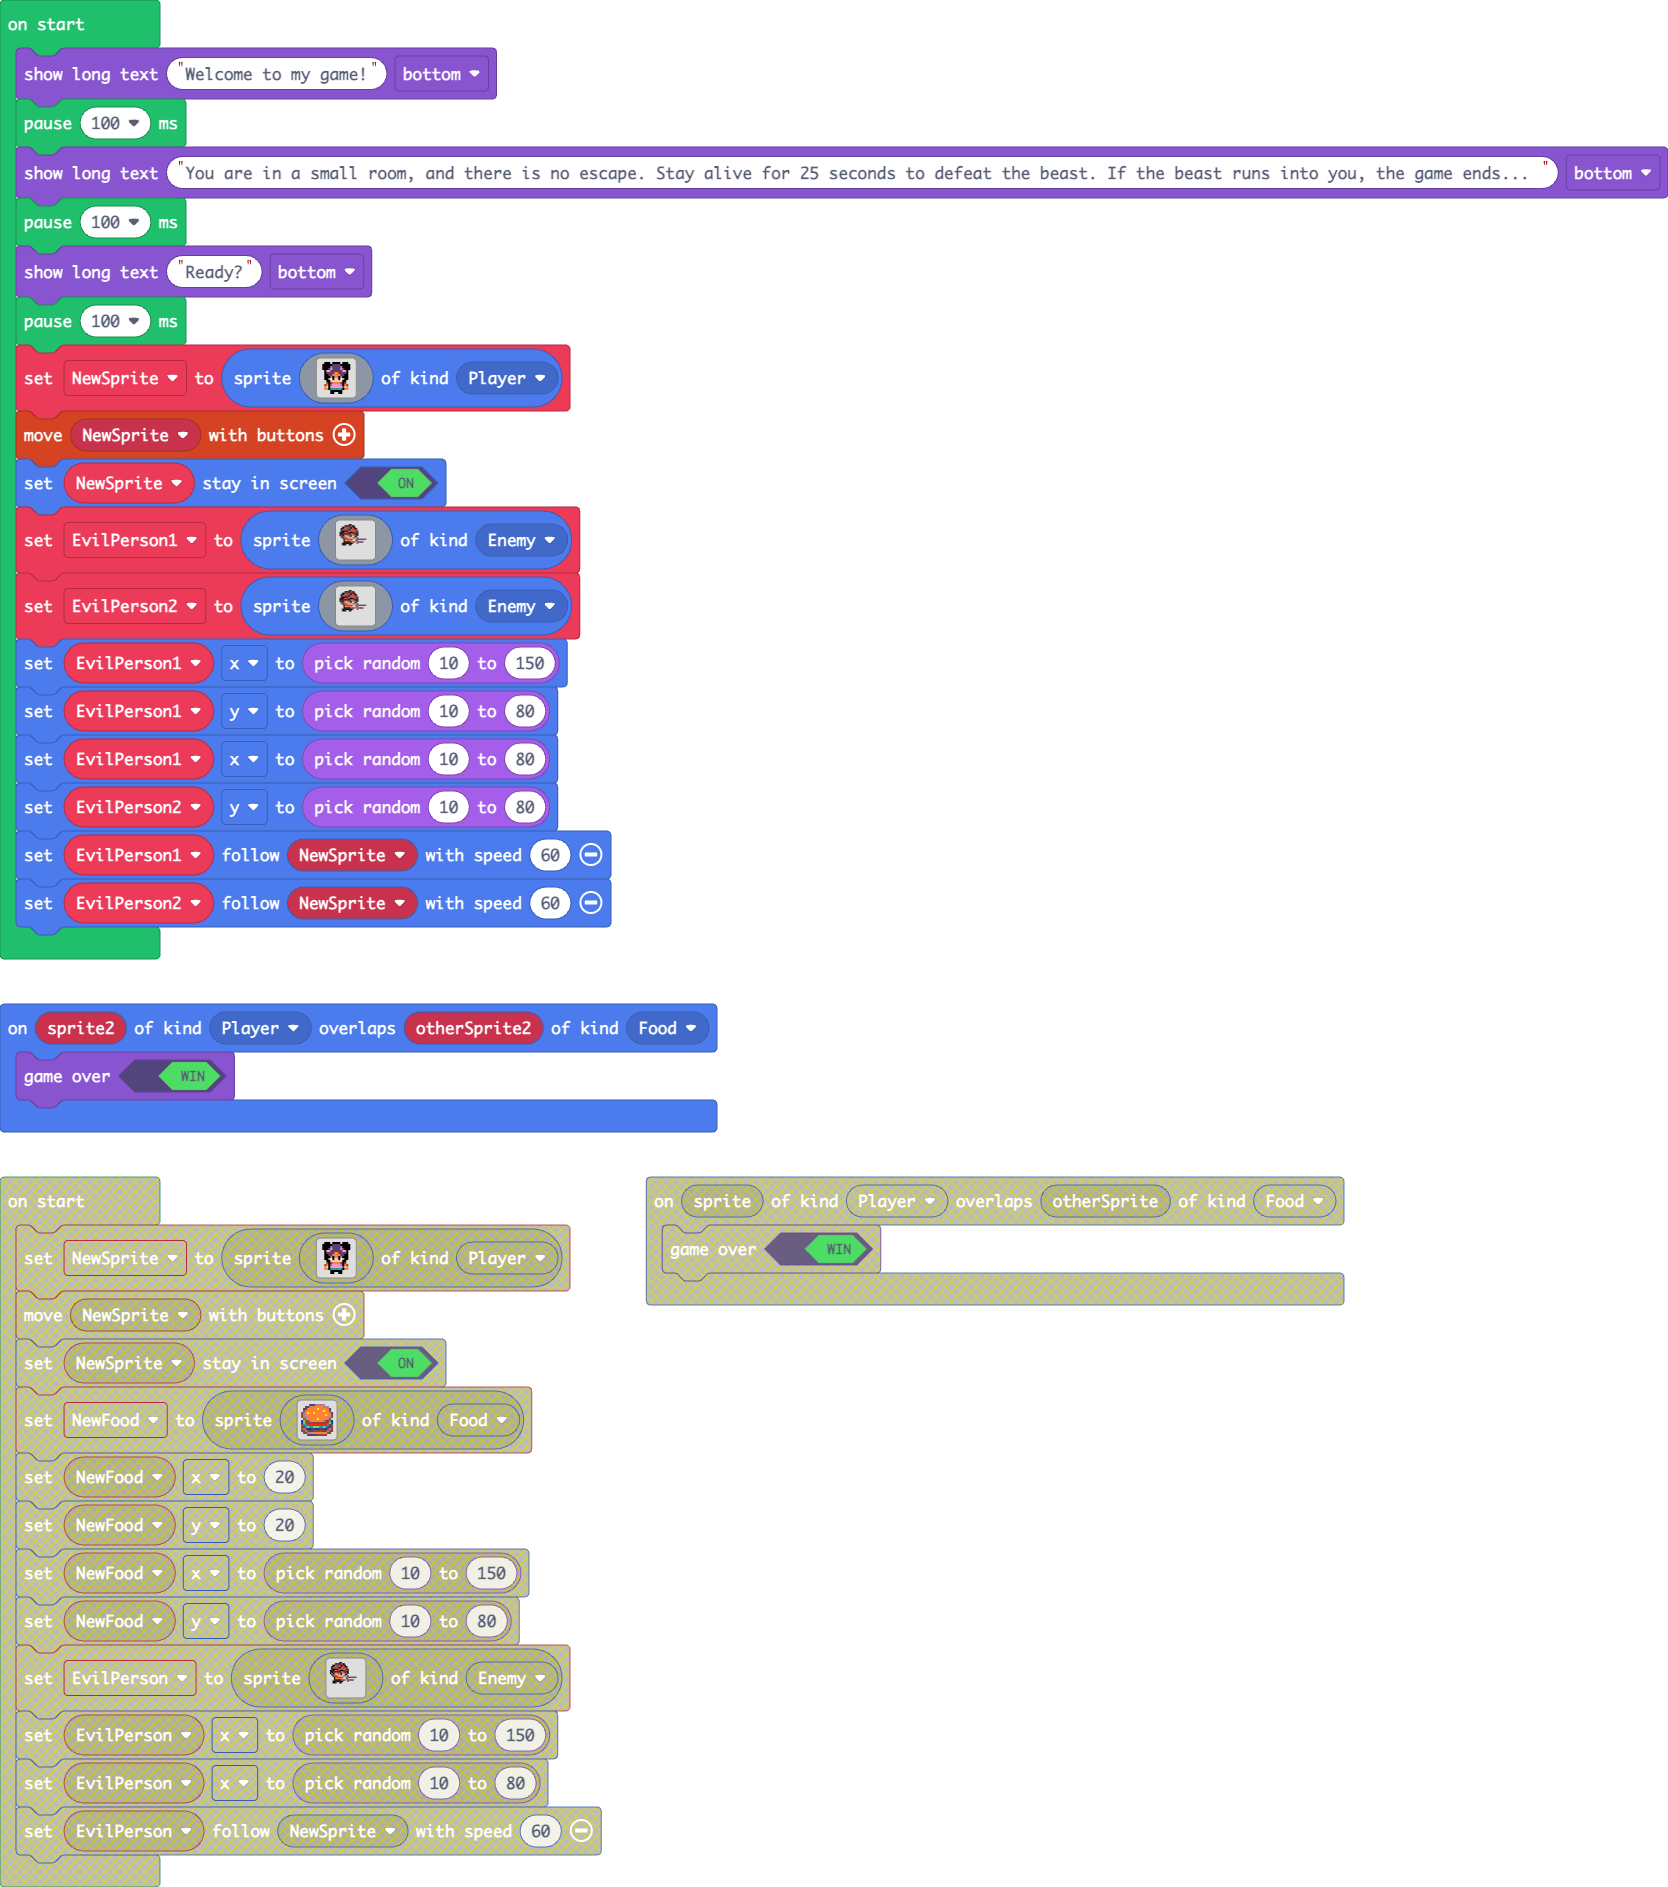
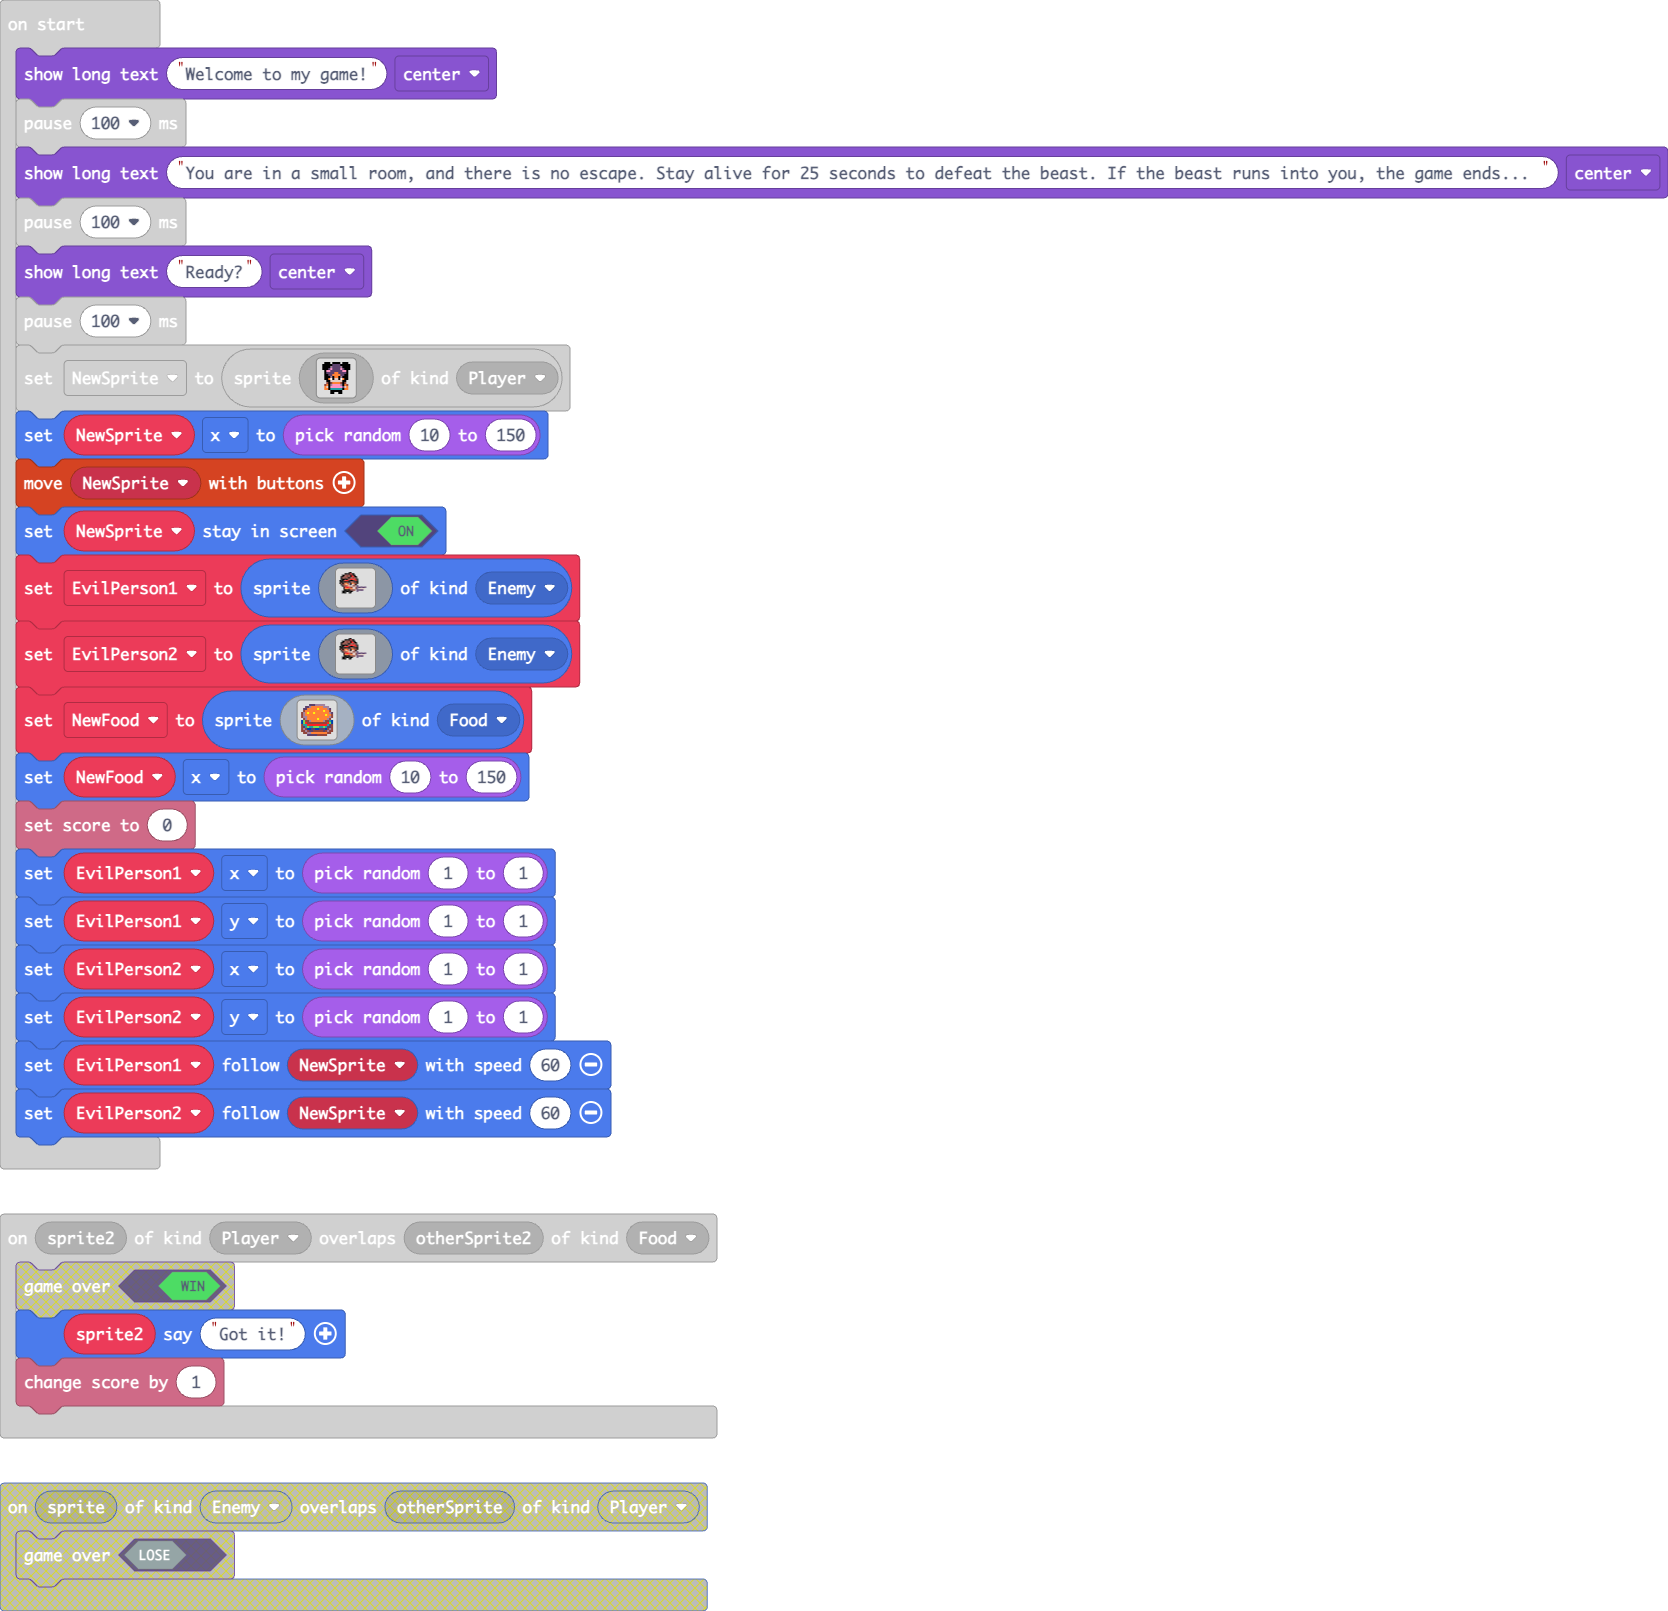
Update main.blocks, main.ts, images.g.jres, images.g.ts

diff --git a/main.ts b/main.ts
@@ -1,23 +1,25 @@
-sprites.onOverlap(SpriteKind.Enemy, SpriteKind.Player, function (sprite, otherSprite) {
-    game.gameOver(false)
-})
 sprites.onOverlap(SpriteKind.Player, SpriteKind.Food, function (sprite2, otherSprite2) {
-    game.gameOver(true)
+    sprite2.sayText("Got it!")
+    info.changeScoreBy(1)
 })
-game.showLongText("Welcome to my game!", DialogLayout.Bottom)
+game.showLongText("Welcome to my game!", DialogLayout.Center)
 pause(100)
-game.showLongText("You are in a small room, and there is no escape. Stay alive for 25 seconds to defeat the beast. If the beast runs into you, the game ends... ", DialogLayout.Bottom)
+game.showLongText("You are in a small room, and there is no escape. Stay alive for 25 seconds to defeat the beast. If the beast runs into you, the game ends... ", DialogLayout.Center)
 pause(100)
-game.showLongText("Ready?", DialogLayout.Bottom)
+game.showLongText("Ready?", DialogLayout.Center)
 pause(100)
 let NewSprite = sprites.create(assets.image`Hero`, SpriteKind.Player)
+NewSprite.x = randint(10, 150)
 controller.moveSprite(NewSprite)
 NewSprite.setStayInScreen(true)
 let EvilPerson1 = sprites.create(assets.image`EvilPerson`, SpriteKind.Enemy)
 let EvilPerson2 = sprites.create(assets.image`EvilPerson`, SpriteKind.Enemy)
-EvilPerson1.x = randint(10, 150)
-EvilPerson1.y = randint(10, 80)
-EvilPerson1.x = randint(10, 80)
-EvilPerson2.y = randint(10, 80)
+let NewFood = sprites.create(assets.image`Burger`, SpriteKind.Food)
+NewFood.x = randint(10, 150)
+info.setScore(0)
+EvilPerson1.x = randint(1, 1)
+EvilPerson1.y = randint(1, 1)
+EvilPerson2.x = randint(1, 1)
+EvilPerson2.y = randint(1, 1)
 EvilPerson1.follow(NewSprite, 60)
 EvilPerson2.follow(NewSprite, 60)

diff --git a/images.g.ts b/images.g.ts
@@ -22,6 +22,25 @@ e e b e c c e e e e e c e b e e
 . e e b b 4 4 4 4 4 4 4 4 e e . 
 . . . c c c c c e e e e e . . . 
 `;
+            case "image1":
+            case "Hero":return img`
+. f f f . f f f f . f f f . 
+f f f f f c c c c f f f f f 
+f f f f b c c c c b f f f f 
+f f f c 3 c c c c 3 c f f f 
+. f 3 3 c c c c c c 3 3 f . 
+. f c c c c 4 4 c c c c f . 
+. f f c c 4 4 4 4 c c f f . 
+. f f f b f 4 4 f b f f f . 
+. f f 4 1 f d d f 1 4 f f . 
+. . f f d d d d d d f f . . 
+. . e f e 4 4 4 4 e f e . . 
+. e 4 f b 3 3 3 3 b f 4 e . 
+. 4 d f 3 3 3 3 3 3 c d 4 . 
+. 4 4 f 6 6 6 6 6 6 f 4 4 . 
+. . . . f f f f f f . . . . 
+. . . . f f . . f f . . . . 
+`;
             case "image3":
             case "EvilPerson":return img`
 .......ff...............
@@ -48,25 +67,6 @@ fefe44ebf44eef..........
 ........................
 ........................
 ........................
-`;
-            case "image1":
-            case "Hero":return img`
-. f f f . f f f f . f f f . 
-f f f f f c c c c f f f f f 
-f f f f b c c c c b f f f f 
-f f f c 3 c c c c 3 c f f f 
-. f 3 3 c c c c c c 3 3 f . 
-. f c c c c 4 4 c c c c f . 
-. f f c c 4 4 4 4 c c f f . 
-. f f f b f 4 4 f b f f f . 
-. f f 4 1 f d d f 1 4 f f . 
-. . f f d d d d d d f f . . 
-. . e f e 4 4 4 4 e f e . . 
-. e 4 f b 3 3 3 3 b f 4 e . 
-. 4 d f 3 3 3 3 3 3 c d 4 . 
-. 4 4 f 6 6 6 6 6 6 f 4 4 . 
-. . . . f f f f f f . . . . 
-. . . . f f . . f f . . . . 
 `;
         }
         return null;
